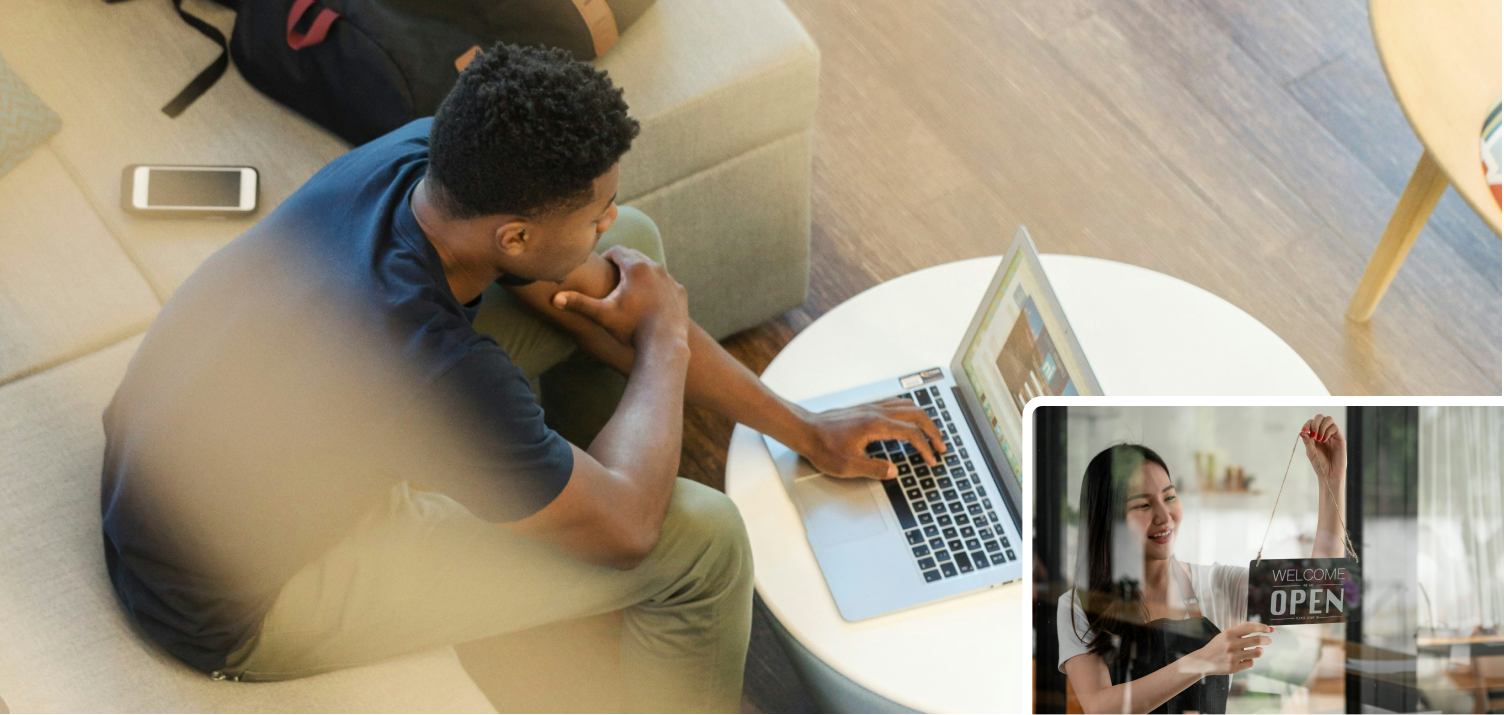
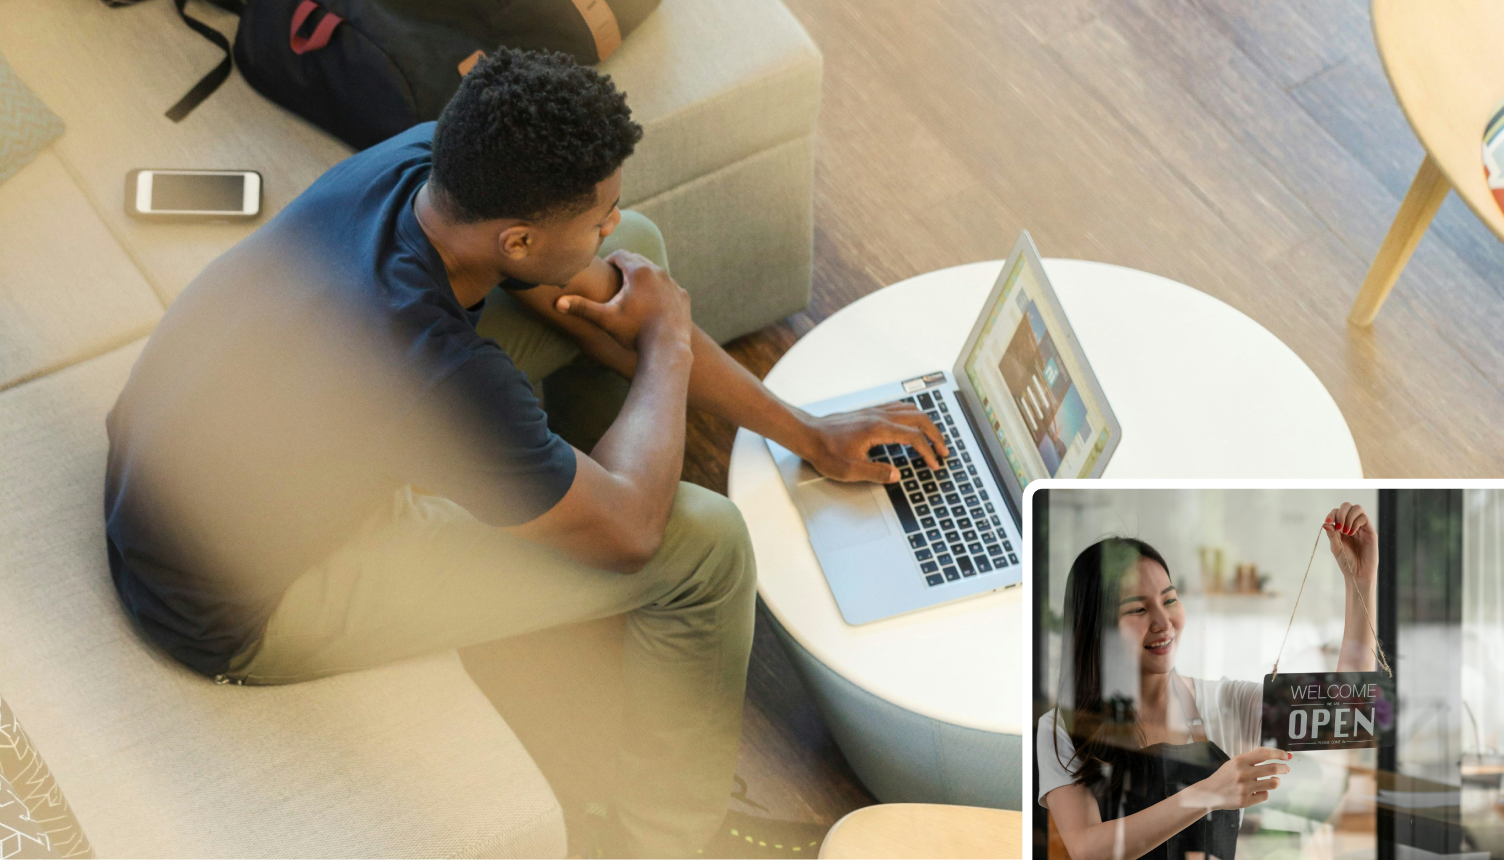
email updates

diff --git a/emails/small-business1.html b/emails/small-business1.html
@@ -99,11 +99,6 @@
         position: relative;
         z-index: 0;
     }
-    @media screen and (max-width: 1440px) {
-        .btn-link {
-            padding: 1rem 2rem;
-        }
-    }
     .no-display {
         display: none;
     }
@@ -151,18 +146,6 @@
         z-index: 0;
         letter-spacing: 3px;
     }
-    @media (max-width: 599px) {
-        .heading1 {
-            font-size: 1.5rem;
-        }
-    }
-    @media (max-width: 500px) {
-        .heading1 {
-            font-size: 2rem;
-            max-width: none;
-            text-align: center;
-        }
-    }
     .banner-img2 {
         width: 50%;
         aspect-ratio: 5 / 3;
@@ -174,11 +157,6 @@
         border-bottom-left-radius: 20px;
         border-top: 5px solid white;
         border-left: 5px solid white;
-    }
-    @media (max-width: 500px) {
-        .banner-img2 {
-            display: none;
-        }
     }
     .desc {
         flex-direction: column;
@@ -204,13 +182,6 @@
         min-width: 30%;
         max-width: 30%;
         text-align: center;
-    }
-    @media (max-width: 500px) {
-        .services .service {
-            flex-grow: 1;
-            max-width: 40ch;
-            margin-block: 1rem;
-        }
     }
     .service .img {
         width: 100px;
